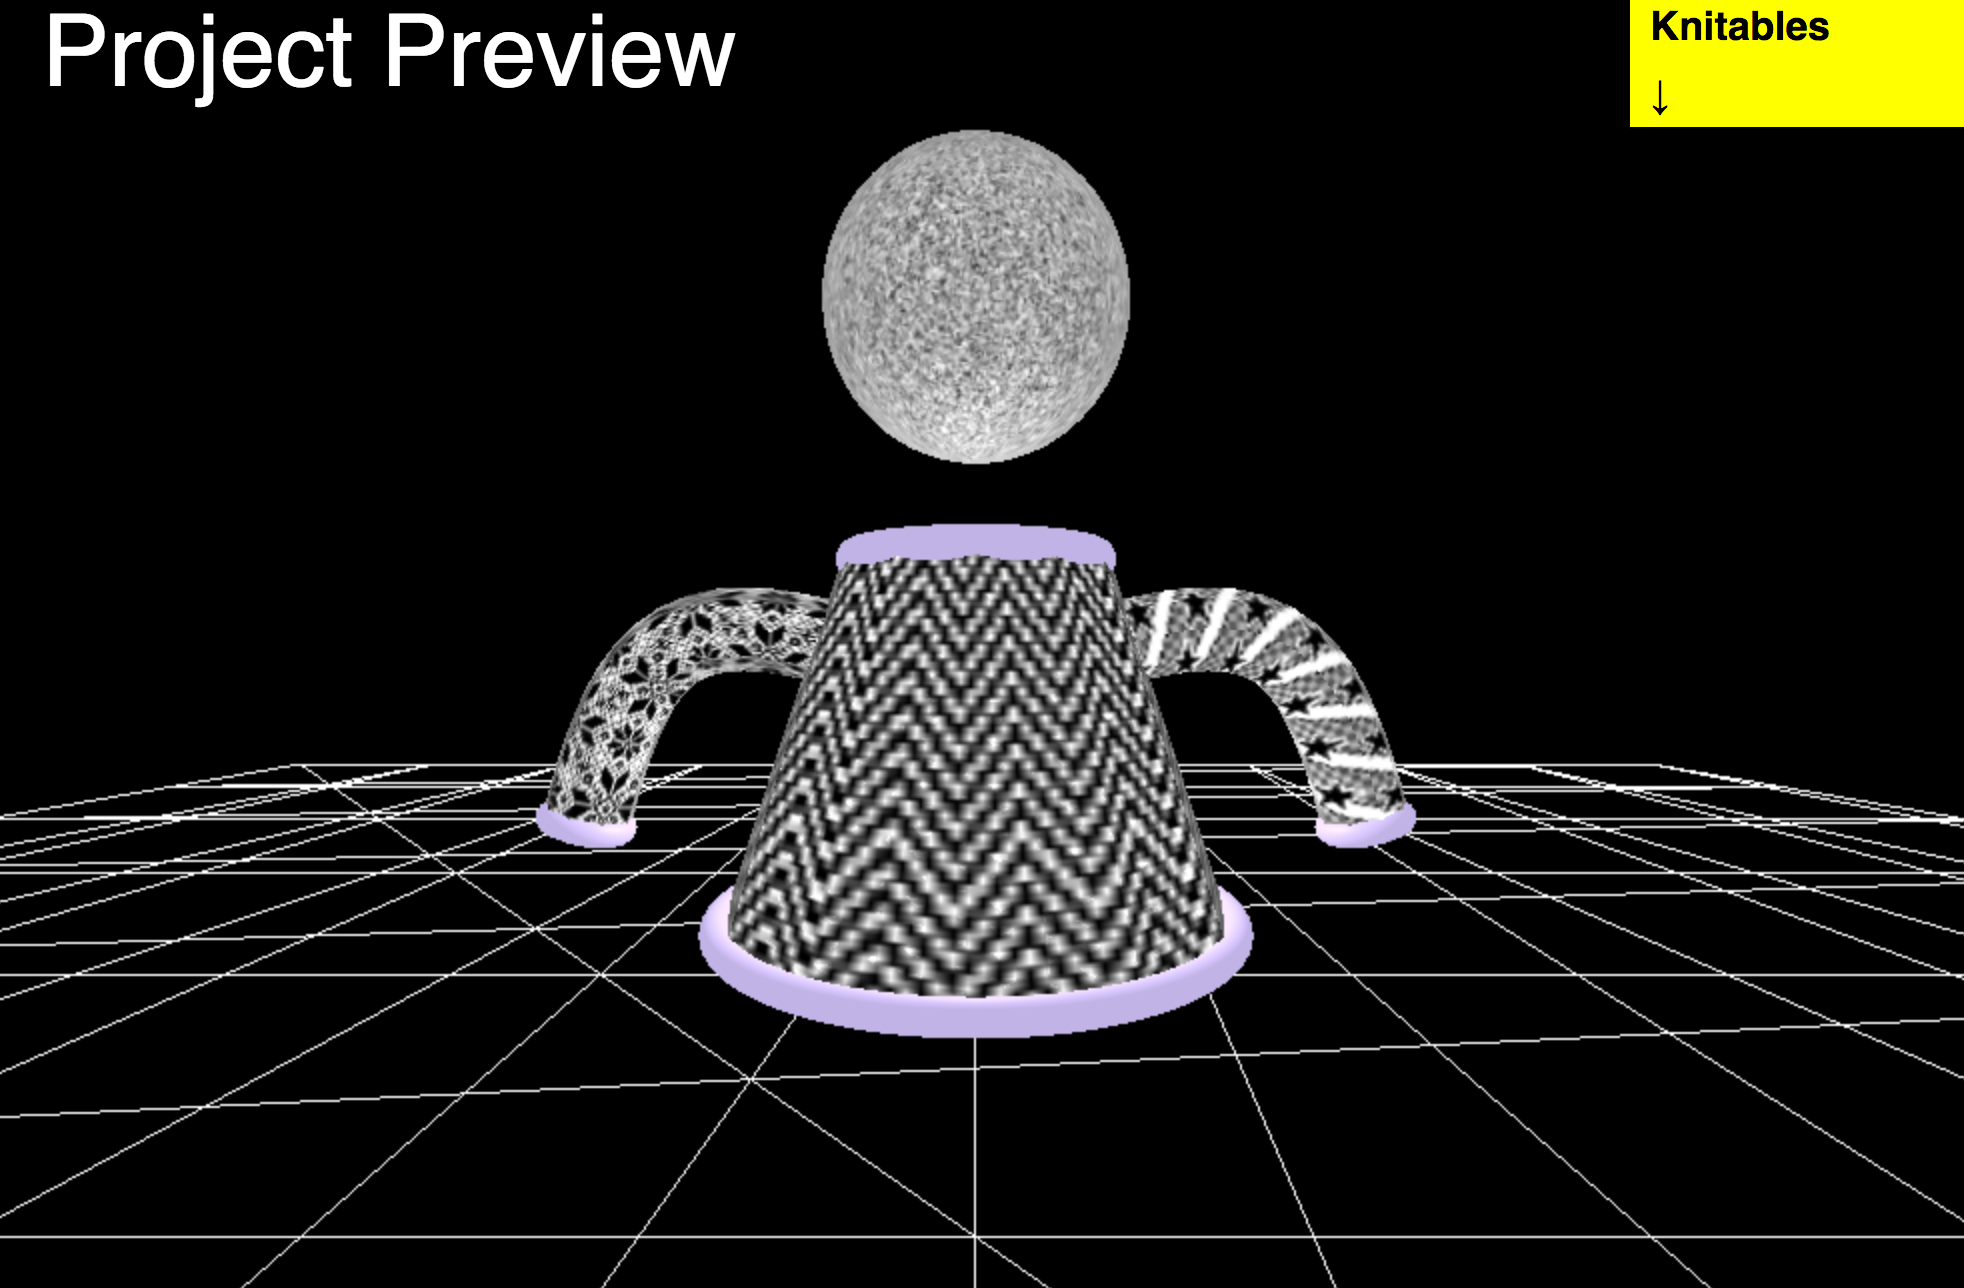
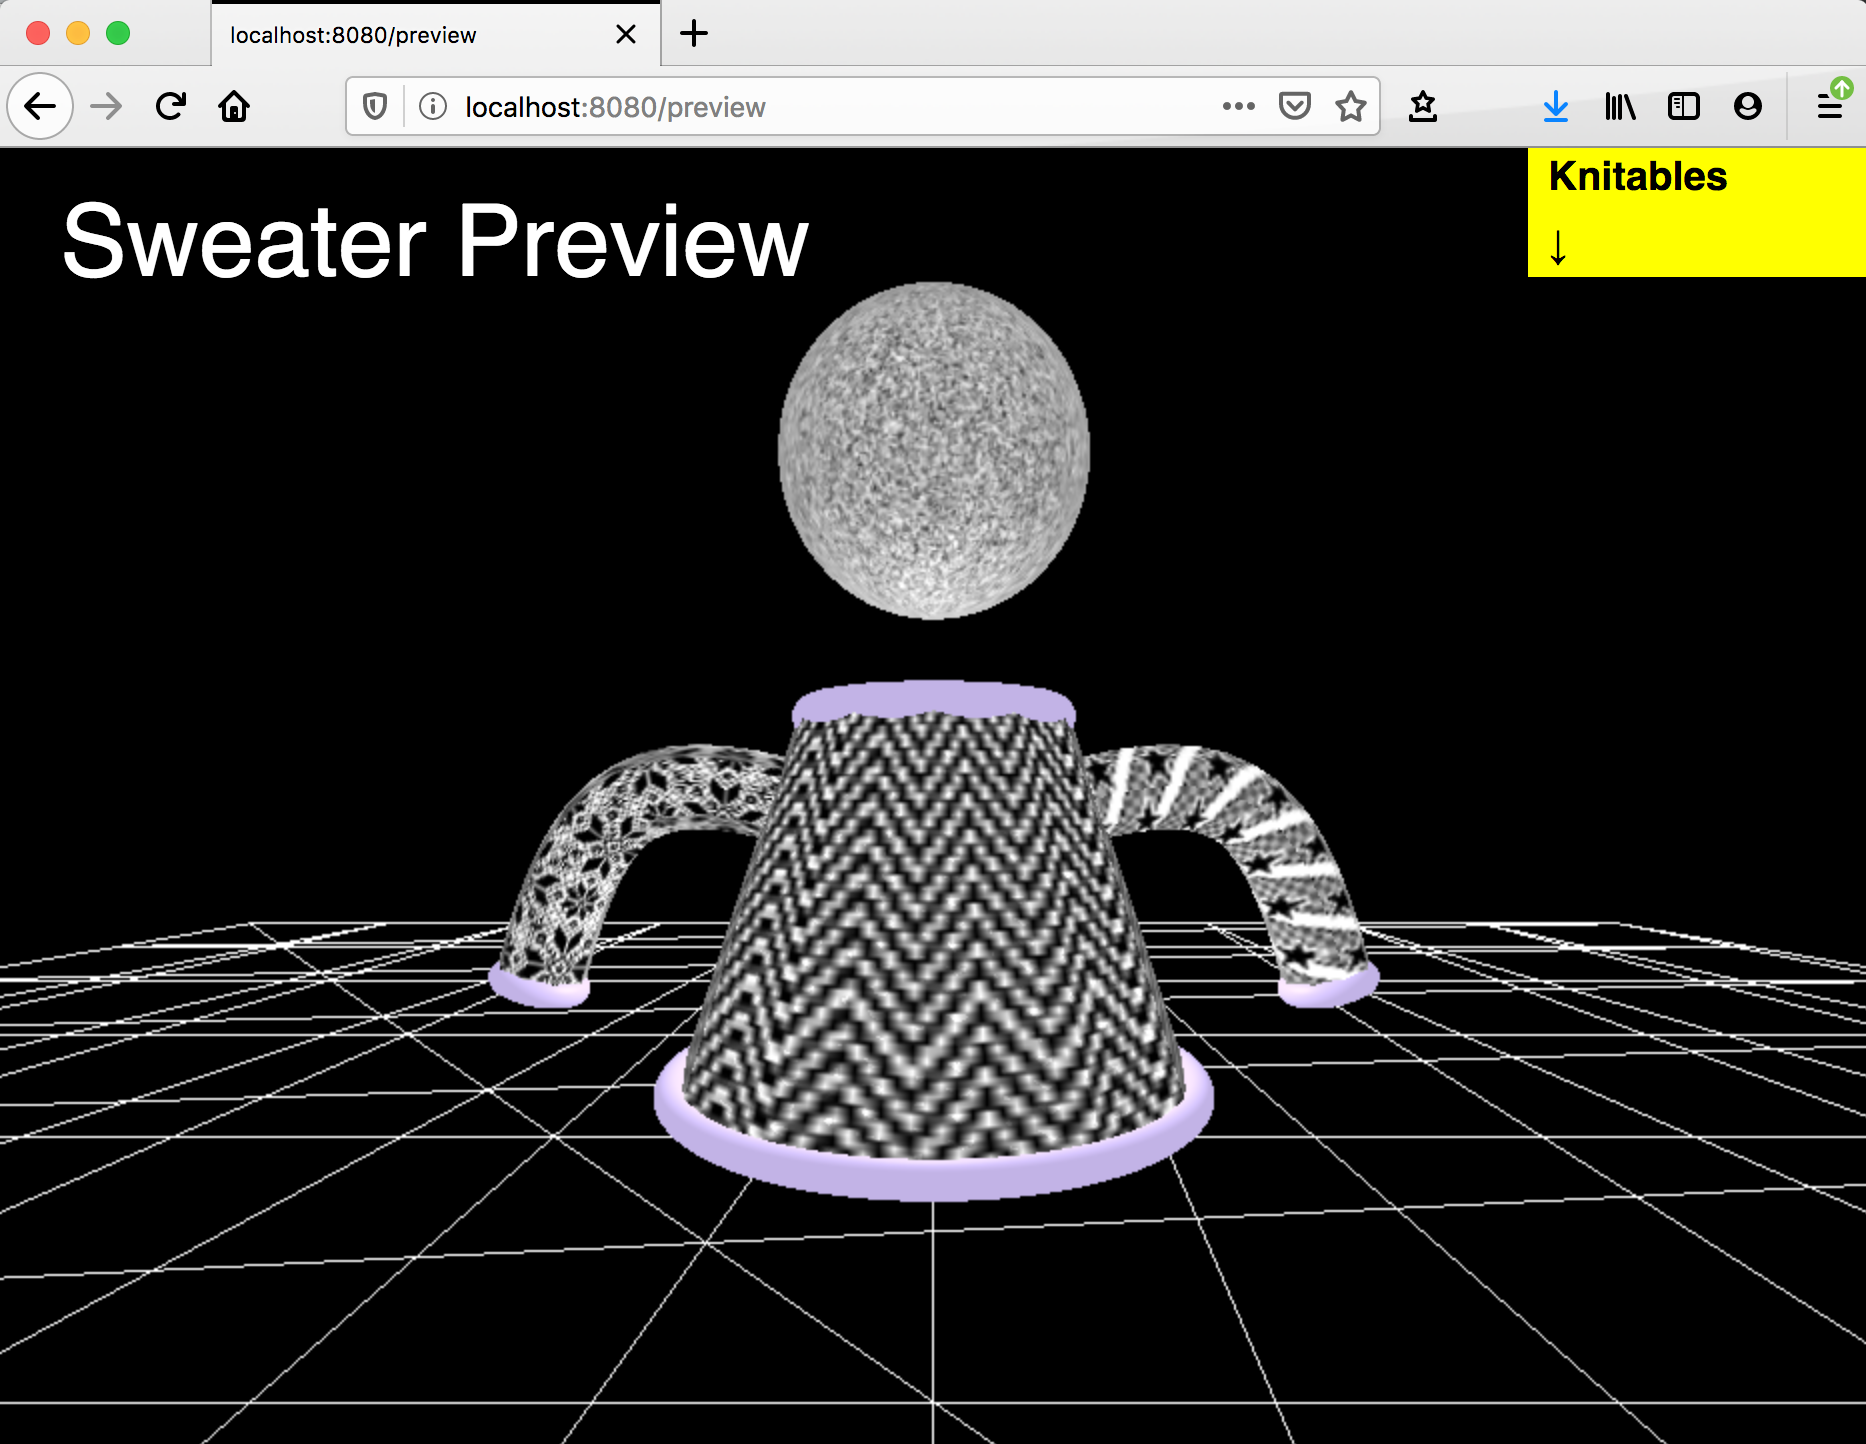
readme gif

diff --git a/public/style.css b/public/style.css
@@ -15,14 +15,15 @@
     color: white;
     font-size: 50px;
     font-weight: 400;
-    z-index: 7;
+    z-index: 10;
+    margin-top: 20px;
+    position: relative;
 }
 
 .previewTitle {
     position: fixed;
     z-index: 10;
 }
-
 
 .registration {
     background-color: black;
@@ -59,23 +60,22 @@
 }
 
 @keyframes pulse {
-  from {
-    transform: scale3d(1, 1, 1);
-  }
+    from {
+        transform: scale3d(1, 1, 1);
+    }
 
-  50% {
-    transform: scale3d(1.05, 1.05, 1.05);
-  }
+    50% {
+        transform: scale3d(1.05, 1.05, 1.05);
+    }
 
-  to {
-    transform: scale3d(1, 1, 1);
-  }
+    to {
+        transform: scale3d(1, 1, 1);
+    }
 }
 
 .pulse {
     animation-name: pulse;
 }
-
 
 .loading {
     position: fixed;
@@ -98,12 +98,9 @@ h2 {
 h1 {
     font-size: 18px;
     padding: 5px 0px;
-
 }
 
-
 input {
-
     border: 0px;
     border-bottom: white 1px solid;
     margin-right: 10px;
@@ -112,8 +109,6 @@ input {
     font-size: 15px;
     width: 200px;
 }
-
-
 
 .logo {
     width: 70px;
@@ -146,12 +141,11 @@ input {
     height: 300px;
     background-color: black;
     border-bottom: yellow 5px solid;
-    animation: .5s ease-out .0s 1 slideInFromTop;
+    animation: 0.5s ease-out 0s 1 slideInFromTop;
     display: flex;
     flex-direction: column;
     padding: 10px;
 }
-
 
 .profile {
     display: flex;
@@ -163,12 +157,11 @@ input {
     border: 1px tomato solid;
     margin: 0px 20px;
     padding: 15px 15px;
-
 }
 
 .welcomeHeader {
     font-size: 30px;
-    color: red;
+    color: black;
     top: 0px;
     margin: 0;
     font-family: Serif;
@@ -193,7 +186,7 @@ input {
 }
 
 .leftNav:hover {
-    animation: .25s ease-out .0s 1  sideSlide;
+    animation: 0.25s ease-out 0s 1 sideSlide;
     animation-timing-function: ease-in;
     animation-fill-mode: forwards;
 }
@@ -212,7 +205,7 @@ input {
 }
 
 .loadingMesh {
-    position:fixed;
+    position: fixed;
     height: 600px;
     width: 600px;
 }
@@ -237,7 +230,7 @@ input {
 .hello {
     font-style: italic;
     font-size: 15px;
-    color: red;
+    color: black;
     padding: 10px 10px;
 }
 
@@ -281,8 +274,6 @@ button {
     justify-content: center;
 }
 
-
-
 .circle {
     position: fixed;
     background-color: black;
@@ -296,8 +287,7 @@ button {
     flex-direction: column;
     align-items: center;
     justify-content: center;
-    box-shadow: 0px 0px 16px 15px rgba(0,0,0,0.89);
-
+    box-shadow: 0px 0px 16px 15px rgba(0, 0, 0, 0.89);
 }
 
 .profilePic {
@@ -310,7 +300,6 @@ button {
     color: black;
 }
 
-
 .imageUploaderBox {
     position: fixed;
     top: 75px;
@@ -320,15 +309,14 @@ button {
     padding: 15px;
 }
 
-
 .chooseFile {
     cursor: pointer;
 }
 
 .closeUploaderButton {
-    position:absolute;
+    position: absolute;
     bottom: 5px;
-    cursor:pointer;
+    cursor: pointer;
     font-size: 15px;
 }
 
@@ -351,7 +339,7 @@ button {
 }
 
 .projectCard:hover {
-    box-shadow: 10px 10px 5px 0px rgba(245, 236, 66,0.75);
+    box-shadow: 10px 10px 5px 0px rgba(245, 236, 66, 0.75);
 }
 
 .projectPic {
@@ -361,7 +349,6 @@ button {
 .wall {
     overflow: scroll;
     height: 330px;
-
 }
 
 .completeWall {
@@ -396,16 +383,16 @@ button {
     color: black;
 }
 #inputFile {
-	width: 50px;
-	height: 20px;
-	opacity: 0;
-	overflow: hidden;
-	position: absolute;
-	z-index: -1;
+    width: 50px;
+    height: 20px;
+    opacity: 0;
+    overflow: hidden;
+    position: absolute;
+    z-index: -1;
 }
 
 .pixelator {
-    position:fixed;
+    position: fixed;
     width: 200px;
     height: 500px;
     background-color: yellow;

diff --git a/src/project.js b/src/project.js
@@ -18,13 +18,12 @@ export default function Project() {
 
     return (
         <div>
-            <p className="componentTitle">Other Project Page</p>
             <div className="scene"></div>
             {currentProject &&
                 currentProject.map((project) => (
                     <div key={project.id}>
-                        <p>
-                            {project.first} {project.last}
+                        <p className="componentTitle">
+                            {project.first}'s Project
                         </p>
                         {sweaterScene(
                             project.body_image,

diff --git a/src/preview.js b/src/preview.js
@@ -14,7 +14,7 @@ export default function Preview() {
     return (
         <div>
             <div className="previewTitle">
-                <h1 className="componentTitle">Project Preview</h1>
+                <h1 className="componentTitle">Sweater Preview</h1>
             </div>
             <div className="scene"></div>
             {sweater &&

diff --git a/README.md b/README.md
@@ -4,19 +4,19 @@
 
 Knitables-II is a tool for visualizing sweater patterns on a three dimensional form developed with React. User projects are visible to other users who can comment and share ideas.
 
-![alt text](https://github.com/jackrandol/knitables-II/blob/master/public/ScreenshotProjectPreview.png "Knitting Page")
+![](https://github.com/jackrandol/knitables-II/blob/master/public/PreviewProjectPages.gif "Knitting Page")
 
 ### Features
 
 Users can sign up or log in with a user account and first edit their profile with a picture of themselves and a small text about themselves. In the 'Knit' section users are asked to upload different images to three segments of a sweater, body, left sleeve and right sleeve. After the users uploads three images ( stored with AWS S3 in the cloud ) they will choose a color for the "ribbed" edges of the sweater. In the 'Preview' section users can then view their sweater with their images mapped onto a three dimensional model. In the 'Projects' section users can view all projects from other users and make/read comments on a comment wall.
 
-#### Tech Stack
+#### Tech Stack:
 
-HTML, CSS, JavaScript, Node.js, Express, bcrypt/salt, PostgreSQL, Three.js, bcrypt/salt
+-   HTML, CSS, JavaScript, Node.js, Express, bcrypt/salt, PostgreSQL, Three.js, bcrypt/salt
 
 #### Framework
 
-React with Redux and Hooks
+-   React with Redux and Hooks
 
 ## Run-through
 
